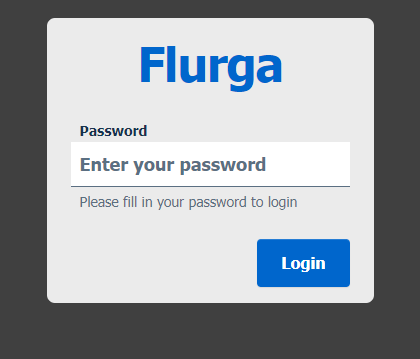
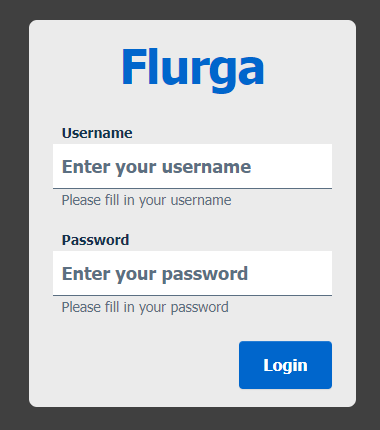
app.ini -> config.yml + fixes

diff --git a/public/recordings.php b/public/recordings.php
@@ -6,9 +6,9 @@ if(!isset($_SESSION["loggedin"]) || $_SESSION["loggedin"] !== true){
     exit;
 }
 
-$config = parse_ini_file("/flurga/app.ini", true);
-$frigateIP = $config['config']['ip'];
-date_default_timezone_set($config['config']['tz']);
+$config = yaml_parse_file("/flurga/config.yml");
+$frigateIP = $config['frigate']['host'];
+date_default_timezone_set($config['flurga']['timezone']);
 ?>
 <html>
 
@@ -62,29 +62,29 @@ date_default_timezone_set($config['config']['tz']);
     <div class="container-fluid p-4">
         <?php
         $k = 0;
-        while ($config['config']['cameras'][$k] ?? null) {
+        while ($config['frigate']['cameras'][$k] ?? null) {
             $i = 0;
-            $json = file_get_contents("http://" . $frigateIP . "/api/" . $config['config']['cameras'][$k] . "/recordings/summary");
+            $json = file_get_contents("http://" . $frigateIP . "/api/" . $config['frigate']['cameras'][$k] . "/recordings/summary");
             $data = json_decode($json);
             echo ('<div class="link-list-wrapper d-flex justify-content-center ">');
             echo ('<ul class="link-list primary-bg">');
             echo ('<li class="p-3">');
-            echo ('<a class="list-item large medium" href="#' . $config['config']['cameras'][$k] . '" data-bs-toggle="collapse" aria-expanded="false" aria-controls="' . $config['config']['cameras'][$k] . '">');
+            echo ('<a class="list-item large medium" href="#' . $config['frigate']['cameras'][$k] . '" data-bs-toggle="collapse" aria-expanded="false" aria-controls="' . $config['frigate']['cameras'][$k] . '">');
             echo ('<span class="list-item-title-icon-wrapper">');
-            echo ('<span class="list-item-title text-white">' . $config['config']['cameras'][$k] . '</span>');
+            echo ('<span class="list-item-title text-white">' . $config['frigate']['cameras'][$k] . '</span>');
             echo ('<svg class="icon icon-primary"><i class="fa-solid fa-angle-down text-white"></i></svg>');
             echo ('</span>');
             echo ('</a>');
             while ($data[$i]->day ?? null) {
-                echo ('<ul class="link-sublist collapse" id="' . $config['config']['cameras'][$k] . '">');
+                echo ('<ul class="link-sublist collapse" id="' . $config['frigate']['cameras'][$k] . '">');
                 echo ('<li>');
-                echo ('<a class="list-item" href="#' . $config['config']['cameras'][$k] . $i . '" data-bs-toggle="collapse" aria-expanded="false" aria-controls="' . $config['config']['cameras'][$k] . $i . '">');
+                echo ('<a class="list-item" href="#' . $config['frigate']['cameras'][$k] . $i . '" data-bs-toggle="collapse" aria-expanded="false" aria-controls="' . $config['frigate']['cameras'][$k] . $i . '">');
                 echo ('<span class="list-item-title-icon-wrapper">');
                 echo ('<span class="list-item-title text-white">' . date("d/m/Y", strtotime($data[$i]->day)) . '</span>');
                 echo ('<svg class="icon icon-primary"><i class="fa-solid fa-angle-down text-white"></i></svg>');
                 echo ('</span>');
                 echo ('</a>');
-                echo ('<ul class="link-sublist collapse" id="' . $config['config']['cameras'][$k] . $i . '">');
+                echo ('<ul class="link-sublist collapse" id="' . $config['frigate']['cameras'][$k] . $i . '">');
                 $j = count($data[$i]->hours) - 1;
                 while ($data[$i]->hours[$j]->hour ?? null) {
                     $oraI = $data[$i]->hours[$j]->hour . ":00";
@@ -93,8 +93,8 @@ date_default_timezone_set($config['config']['tz']);
                     $dataFine = $data[$i]->day . " " . $oraF;
                     $timestampI = \DateTime::createFromFormat('Y-m-d H:i', $dataInizio)->getTimestamp();
                     $timestampF = \DateTime::createFromFormat('Y-m-d H:i', $dataFine)->getTimestamp();
-                    $link = 'http://' . $frigateIP . '/' . $config['config']['cameras'][$k] . '/start/' . $timestampI . '/end/' . $timestampF . '/clip.mp4';
-                    $ilink = '?ti=' . $timestampI . '&tf=' . $timestampF . '&cam=' . $config['config']['cameras'][$k];
+                    $link = 'http://' . $frigateIP . '/' . $config['frigate']['cameras'][$k] . '/start/' . $timestampI . '/end/' . $timestampF . '/clip.mp4';
+                    $ilink = '?ti=' . $timestampI . '&tf=' . $timestampF . '&cam=' . $config['frigate']['cameras'][$k];
                     echo ('<li><a class="list-item" href="' . $ilink . '"><span class="text-white">' . $oraI . ' - ' . $oraF . '</span></a></li>');
                     $j--;
                 }

diff --git a/public/login.php b/public/login.php
@@ -6,18 +6,22 @@ if(isset($_SESSION["loggedin"]) && $_SESSION["loggedin"] === true){
     exit;
 }
 
-$config = parse_ini_file("/flurga/app.ini", true);
-date_default_timezone_set($config['config']['tz']);
+$config = yaml_parse_file("/flurga/config.yml");
+date_default_timezone_set($config['flurga']['timezone']);
 
 if(isset($_POST['submit'])){
-    if($_POST["password"] == $config['config']['password']){
-        session_start();
+    if($_POST["username"] == $config['flurga']['username']){
+        if($_POST["password"] == $config['flurga']['password']){
+            session_start();
         
-        $_SESSION["loggedin"] = true;                            
-        
-        header("location: index");
-    } else{
-        $login_err = "Invalid password!";
+            $_SESSION["loggedin"] = true;                            
+            
+            header("location: index");
+        } else {
+            $login_err = "Invalid password!";
+        }
+    } else {
+        $login_err = "Invalid username!";
     }
 }
 
@@ -44,10 +48,15 @@ if(isset($_POST['submit'])){
                 ?>
                 <h1 align="center" style="color:#0066cc">Flurga</h1>
                 <form method="post">
-                    <div class="form-group mt-5 mb-4">
+                    <div class="form-group mt-5" style="margin-bottom:40px;">
+                        <label for="username">Username</label>
+                        <input type="text" class="form-control" id="username" name="username" placeholder="Enter your username" aria-describedby="usernameDescription">
+                        <small id="usernameDescription" class="form-text">Please fill in your username</small>
+                    </div>
+                    <div class="form-group mb-4">
                         <label for="password">Password</label>
                         <input type="password" class="form-control" id="password" name="password" placeholder="Enter your password" aria-describedby="passwordDescription">
-                        <small id="passwordDescription" class="form-text">Please fill in your password to login</small>
+                        <small id="passwordDescription" class="form-text">Please fill in your password</small>
                     </div>
                     <div class="form-group mb-3 text-end">
                         <input type="submit" name="submit" class="btn btn-primary text-white" value="Login">

diff --git a/public/index.php b/public/index.php
@@ -6,9 +6,9 @@ if(!isset($_SESSION["loggedin"]) || $_SESSION["loggedin"] !== true){
     exit;
 }
 
-$config = parse_ini_file("/flurga/app.ini", true);
-$frigateIP = $config['config']['ip'];
-date_default_timezone_set($config['config']['tz']);
+$config = yaml_parse_file("/flurga/config.yml");
+$frigateIP = $config['frigate']['host'];
+date_default_timezone_set($config['flurga']['timezone']);
 ?>
 <html>
 
@@ -52,10 +52,10 @@ date_default_timezone_set($config['config']['tz']);
                 <div class="form-group col-md-3 text-center" style="margin-bottom:0px">
                     <?php
                     $i = 0;
-                    while ($config['config']['cameras'][$i] ?? null) {
+                    while ($config['frigate']['cameras'][$i] ?? null) {
                         echo ('<div class="form-check form-check-inline">');
-                        echo ('<input name="CAM" type="radio" id="' . $config['config']['cameras'][$i] . '" value="' . $config['config']['cameras'][$i] . '" required>');
-                        echo ('<label for="' . $config['config']['cameras'][$i] . '">' . $config['config']['cameras'][$i] . '</label>');
+                        echo ('<input name="CAM" type="radio" id="' . $config['frigate']['cameras'][$i] . '" value="' . $config['frigate']['cameras'][$i] . '" required>');
+                        echo ('<label for="' . $config['frigate']['cameras'][$i] . '">' . $config['frigate']['cameras'][$i] . '</label>');
                         echo ('</div>');
                         $i++;
                     }

diff --git a/public/events.php b/public/events.php
@@ -6,9 +6,9 @@ if(!isset($_SESSION["loggedin"]) || $_SESSION["loggedin"] !== true){
     exit;
 }
 
-$config = parse_ini_file("/flurga/app.ini", true);
-$frigateIP = $config['config']['ip'];
-date_default_timezone_set($config['config']['tz']);
+$config = yaml_parse_file("/flurga/config.yml");
+$frigateIP = $config['frigate']['host'];
+date_default_timezone_set($config['flurga']['timezone']);
 
 $json = file_get_contents("http://" . $frigateIP . "/api/events");
 $data = json_decode($json);
@@ -34,6 +34,7 @@ if (isset($_POST['dall'])) {
         $data = json_decode($json);
         $i = 0;
     } while ($data[$i] ?? null);
+    header("Location: " . $_SERVER['PHP_SELF']);
 }
 ?>
 <html>

diff --git a/README.md b/README.md
@@ -16,30 +16,30 @@ version: "3"
 services:
   flurga:
     image: bthuderous/flurga:latest
-    container_name: flurga
+    container_name: Flurga
     restart: unless-stopped
     ports:
-      - 8080:8080 # Web server port
+      - 8080:8080
     volumes:
-      - /home/user/flurga/app.ini:/flurga/app.ini
+      - /home/user/flurga/config.yml:/flurga/config.yml
 ```
 
 ## Config file
-!! ATTENTION !! Edit app.ini file config with your Frigate IP and cameras
-```ini
-[config]
-; Frigate ip with no http:// or https://
-ip = "192.168.144.16:5000"
+```yaml
+flurga:
+  # Username and password for Flurga login
+  username: admin
+  password: default123
+  timezone: Europe/Rome
+  
+frigate:
+  # Frigate IP:PORT
+  host: 192.168.144.16:5000
 
-; Login password
-password = "default123"
-
-; Set your timezone
-tz = "Europe/Rome"
-
-; Camera list - format: cameras[] = "CAMERANAME"
-cameras[] = "CAM1"
-cameras[] = "CAM2"
+  # Cameras list
+  cameras:
+    - CAM1
+    - CAM2
 ```
 
 ## Problems / Questions
